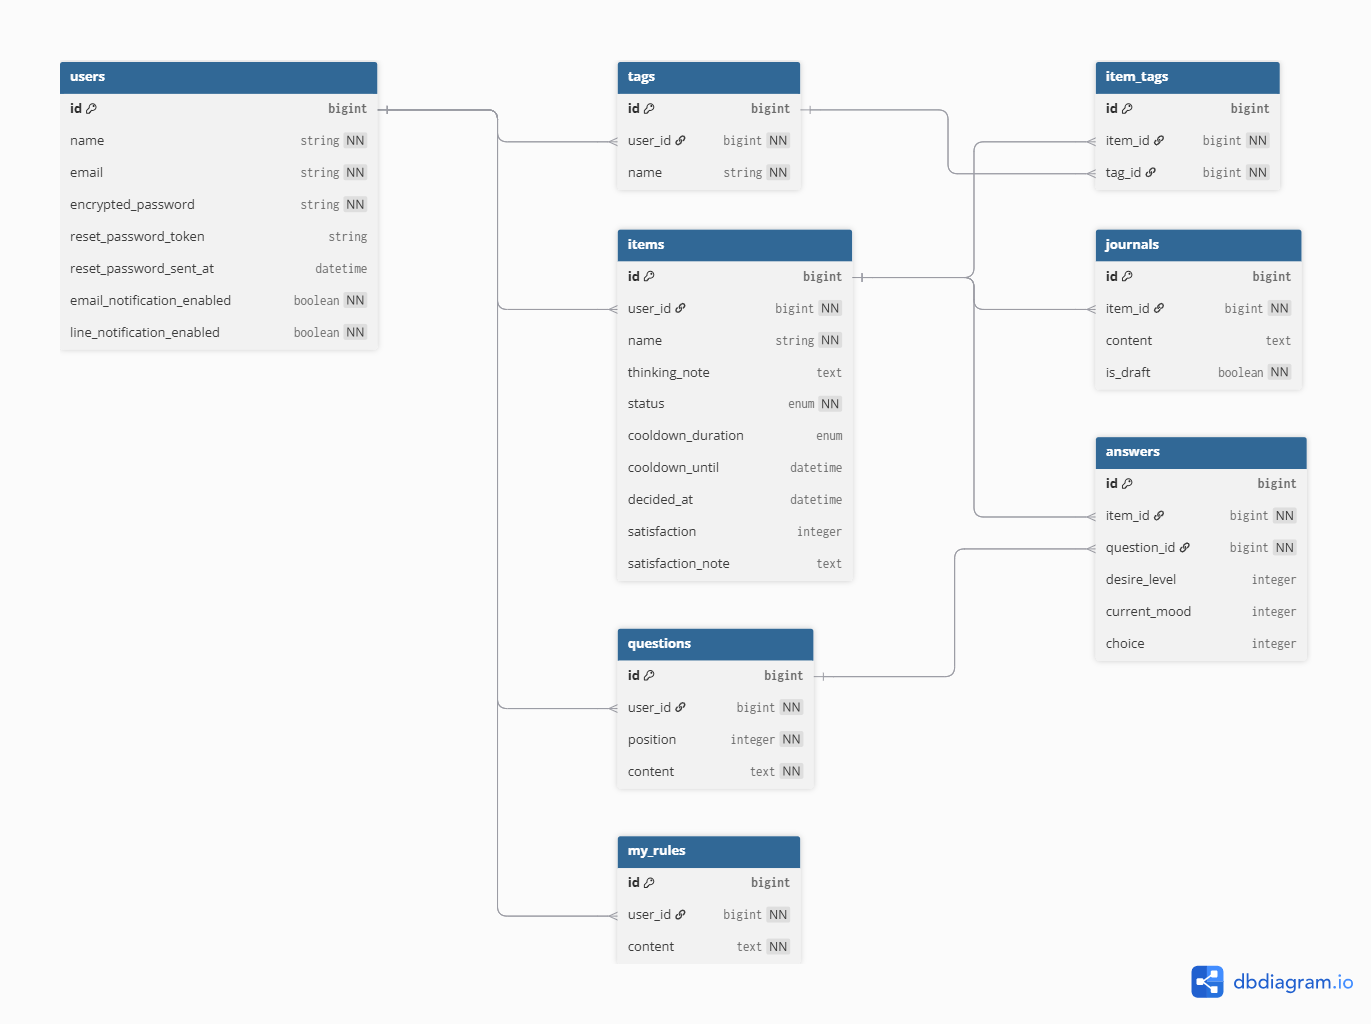
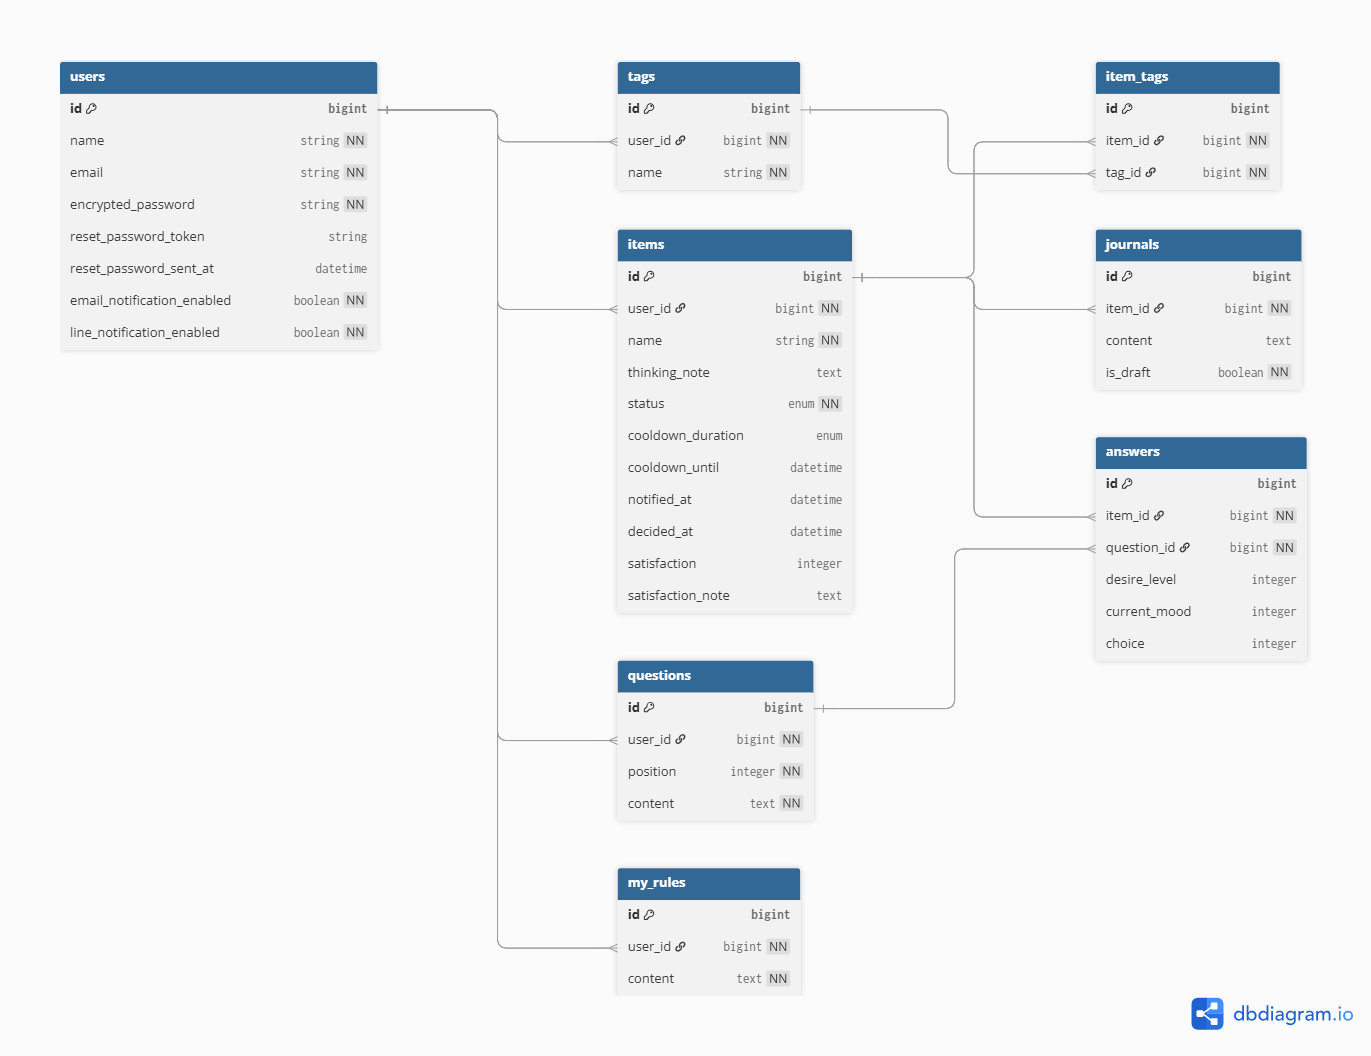
docs: README、ER図を修正

diff --git a/README.md b/README.md
@@ -1,52 +1,51 @@
 ## サービス概要
-  欲しいもの・買うか迷うものに対して「なぜいま買うのか？」を考える時間を作ることで、納得した購入判断をサポートするWebアプリです。質問への回答やジャーナリング(書く瞑想)、クールダウンタイマーを通して、衝動的な購入を防ぎながら、思考や感情を整理することができます。
+  買う前に一度立ち止まり、「なぜ今買うのか？」を考える時間をつくることで、後悔しない購入判断をサポートするWebアプリです。質問への回答、クールダウンタイマー、ジャーナリングを通して、衝動的な購入を防ぎつつ、自分の気持ちや買う理由を整理することができます。
 
 ## 開発の背景
-  私は以前、書籍や楽譜を買いすぎてしまったことがあります。一点一点は比較的安価だったため金額によるブレーキが効きづらく、まとめ買いを繰り返してしまいました。その結果、「本当にすべて手を付けられるのだろうか」という物を持ちすぎていることへの負担感や可処分時間への不安を強く感じるようになりました。
+  私は以前、書籍や楽譜を買いすぎてしまったことがあります。一点一点は比較的安価だったため金額によるブレーキが効きづらく、まとめ買いを繰り返してしまいました。その結果、「本当に全てに手を付けられるのだろうか」という物を持ちすぎていることへの負担感を感じるようになりました。
 
-  振り返ると、私の場合は家計簿をつけるだけでは買いすぎを防ぐことができず、「本当にいま買う必要があるのか」「ストレスによる衝動買いではないか」などを冷静に考え、自分の状態や思考のクセに気付くことが必要だったと思いました。
+  振り返ると、家計簿をつけるだけでは買いすぎを防ぐことはできず、「本当にいま買う必要があるのか」「ストレスによる衝動買いではないか」といった点を冷静に考える時間が必要だったと感じました。
 
-  一方で、節約だけを重視すると、学び・経験・交流など本来使うべき場面でお金を使えないこともあるのではないかと考えました。
+  一方で、節約だけを重視すると、学び・経験・交流など本来使うべき場面にお金や時間を使えなくなる可能性もあるのではないかと考えました。
 
-  そこで「買わない」ことではなく、購入判断をサポートすることで「後悔を減らす」ことを目的にしたサービスを作ることにしました。
+  そこで「買わない」ことを目的とするのではなく、購入判断をサポートすることで「後悔を減らす」ためのサービスを作ることにしました。
 
 ## 想定ユーザー
-  - 衝動買い・無駄遣いを減らしたいと思っている方
-  - 家計簿や節約系アプリでは衝動買い・無駄遣いを防げなかった方
+  - 衝動買いや無駄遣いを減らしたいと考えている方
+  - 家計簿や節約アプリでは買いすぎを防げなかった方
   - 購入前に一度立ち止まって考える習慣を作りたい方
-  - きちんと考えて買い物をしたいけど、何から取り組めば良いか分からない方
 
 ## サービスの利用イメージ
-  1. 欲しいもの(買うか迷うもの)を登録する
-  2. 質問に回答し、欲しい理由や現在の気分を整理する
+  1. 欲しいもの(買うか迷っているもの)を登録する
+  2. 質問に回答し、現在の気分や欲しい理由を整理する
   3. クールダウンタイマーを設定し、購入判断を保留する
   4. タイマー終了後に通知を受け取る
-  5. ジャーナリングを行い、自分の気持ちや考えを整理する
+  5. ジャーナリング(頭に浮かんだ感情や思考をありのまま書き出すこと)を行い、気持ちや考えを整理する
   6. 「買う」「買わない」を改めて判断する
   7. 判断結果を蓄積し、自分の思考パターンを振り返る
 
 ## サービスの特徴（既存サービス・競合調査）
   既存の衝動買い・無駄遣い防止サービスは、節約や支出管理を目的にしたものが多いです。
-  - 節約をサポートするもの(例：家計簿、最安値を見つける)
-  - 金額を見える化するもの(例：無駄遣い金額や節約金額の可視化)
-  - 買わないことを目指すもの(例：我慢した回数の記録、AIが購入の必要性を問いかける)
+  - 金額を可視化するもの(例：家計簿、無駄遣い金額や節約金額を集計する)
+  - 節約をサポートするもの(例：最安値を見つける)
+  - 買わないことを目指すもの(例：我慢した回数を記録する、AIが購入の必要性を問いかける)
 
   一方、本サービスでは「なぜそれを欲しいと思ったのか」という思考整理と感情認識に焦点を当てています。感情を言語化・数値化すること(ラベリング)は衝動を抑え、ジャーナリングは自己理解の促進やストレス軽減に効果があるとされています。サービス利用の流れの中で、
 
-  - 質問による感情のラベリング
+  - 質問回答による感情のラベリング
   - クールダウンタイマー
   - ジャーナリング
 
   を組み合わせることで、衝動を落ち着かせた状態で購入判断ができる仕組みを提供します。<br>
-  また、「買う」「買わない」どちらの判断も尊重し、ユーザーが納得して意思決定できる体験を大切にしています。
+  また、「買う」「買わない」どちらの判断も尊重した上で、ユーザーが納得して意思決定できる体験を大切にしたいと考えています。
 
 ## 機能候補
   ### MVPリリース
   - ユーザー登録・ログイン
-  - 欲しいもの(買うか迷うもの)登録
+  - 欲しいもの(買うか迷っているもの)登録
     - どのくらい欲しいか・今の気分(5段階で回答)
-    - なぜ欲しいかを考えるきっかけになる質問(選択式)
-    - ジャーナリング(書く瞑想)
+    - なぜ欲しいかを考えるきっかけになる質問(はい・わからない・いいえから選択式で回答)
+    - ジャーナリング(頭に浮かんだ感情や思考をありのまま書き出すこと)
     - 購入判断(買う・買わない)
   - クールダウンタイマー(一定時間経過後にメール通知)
     - 「30分」「24時間」「3日」から選択 or スキップ
@@ -54,10 +53,11 @@
 
   ### 本リリース
   - ソーシャルログイン(OmniAuth)
-  - 欲しいもの(買うか迷うもの)登録の拡張
+  - 欲しいもの(買うか迷っているもの)登録の拡張
     - 質問内容のカスタマイズ(ユーザーが変更可能にする)
-    - カテゴリタグ(判断履歴の表示・購入傾向の分析に活用)
-  - 通知機能の拡張(LINE Messaging API)
+    - アイテムタグ(判断履歴の表示・購入傾向の分析に活用)
+  - 通知機能の拡張
+    - LINE通知(LINE Messaging API)
   - 登録済み情報の検索
   - 購入後の満足度登録(3段階で回答)
   - 購入傾向の分析(登録データを活用したグラフ表示)
@@ -69,11 +69,9 @@
   ジャーナリングは継続することで効果が出やすいとされていますが、毎回文章を書くことが負担になる可能性があります。
 
   **対策：**
-  - 欲しいもの名だけ先に登録できるようにする
-  - 質問回答をスキップ可能にする
-  - 短時間で回答できるよう、選択式の質問形式を採用する
-  - 時間がある時に落ち着いてジャーナリングを行える設計にする
-  - ユーザーの状況に応じて負担を調整できるようにする
+  - 欲しいものの名前だけ先に登録できるようにする
+  - 事前に選択式の質問を用意することで、ジャーナリングを行いやすくする
+  - 時間がある時に落ち着いてジャーナリングを行えるようにする
 
   #### サービスの価値がユーザーに伝わりにくい可能性
 
@@ -92,19 +90,19 @@
   | カテゴリ | 技術 |
   | --- | --- |
   | フロントエンド | Tailwind CSS, DaisyUI / Hotwire(Turbo/Stimulus) |
-  | バックエンド | Ruby 3.3.x / Ruby on Rails 7.2.x |
-  | データベース | PostgreSQL |
+  | バックエンド | Ruby 3.3.x / Ruby on Rails 8.1.x |
+  | データベース | PostgreSQL(Neon) |
   | デプロイ | Render |
-  | その他 | devise / OmniAuth / RSpec / Capybara / RuboCop / kaminari / ransack / LINE Messaging API |
+  | その他 | devise / OmniAuth / RSpec / Capybara / RuboCop / kaminari / ransack / Solid Queue / Resend / LINE Messaging API |
 
   #### 選定理由
   短期間でMVPを開発し、ユーザーの反応をもとに改善を行うことを目的としているため、使用経験のある技術を中心に選定しました。Railsの標準機能やGemによって必要な機能を効率よく実装できると考えています。
 
   #### チャレンジしたい点・不安な点
   - Hotwire(Turbo/Stimulus)を活用した動的UIの実装
-  - LINE通知機能の実装
+  - メール・LINE通知機能の実装
   - データを活用した分析機能の実装
-  - デプロイを開発初期に行うことでリスクを軽減
+  - デプロイを開発初期に行い、本番環境トラブルのリスク軽減
   - 通知機能や外部APIの実装経験が少なく、開発途中で課題が発生する可能性があるため、段階的な機能追加を意識
 
 ## 画面遷移図
